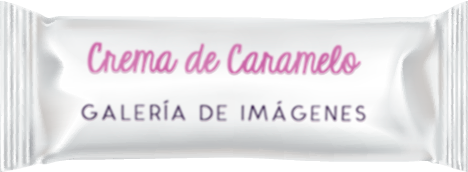
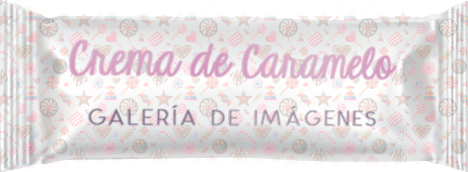
renamed caragaleria

diff --git a/client/src/components/presentational/Gallery/index.js b/client/src/components/presentational/Gallery/index.js
@@ -1,7 +1,7 @@
 import React, { Component } from 'react'
 import Nav from '../Nav'
 import Footer from './Footer'
-import HeaderImg from '../../../assets/img/caragaleria3.png'
+import HeaderImg from '../../../assets/img/caragaleria.png'
 import ThemeSelector from './ThemeSelector'
 import axios from 'axios'
 import { withRouter } from 'react-router'
